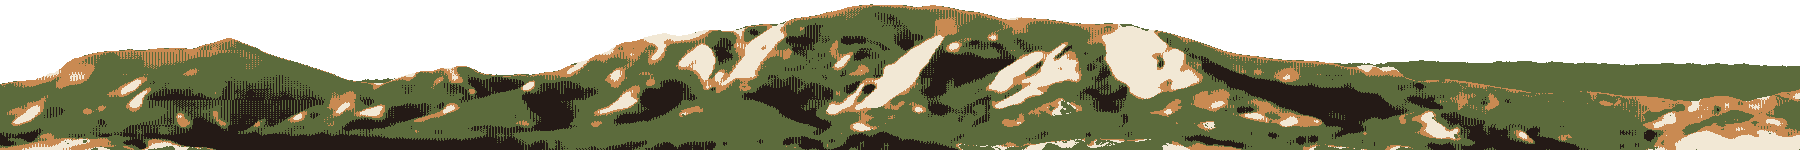
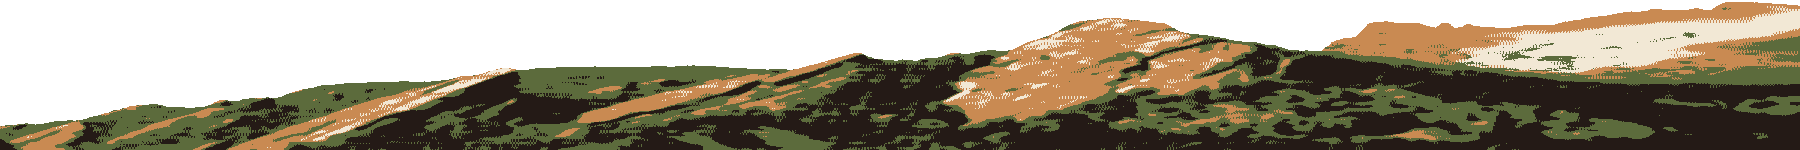
site: reframe the header ridge as a zoomed, angled read on the slabs
The full-range shot read as a flat horizon band. This crops in on the Flatirons
themselves so the slabs run as a rising diagonal, which is the perspective the
original winter asset had before the snow-free swap.

New source is CC BY 2.0 rather than CC BY-SA, so the derivative no longer
inherits share-alike. make_strip.py gains an optional fractional crop as its
framing dial, so re-framing is an argument instead of a hand-edit.

diff --git a/index.html b/index.html
@@ -30,9 +30,9 @@
     <link href="https://fonts.googleapis.com/css2?family=Crimson+Pro:wght@400;500;600;700&family=Inter:wght@400;500;600&family=Fira+Code:wght@400;500&display=swap" rel="stylesheet">
 
     <link rel="alternate" type="text/markdown" href="/llms.txt" title="LLM-readable profile" />
-    <!-- Header ridge: four-colour derivative of "The Flatirons in autumn" by Eddyl,
-         via Wikimedia Commons, CC BY-SA 3.0.
-         https://commons.wikimedia.org/wiki/File:The_Flatirons_in_autumn..JPG -->
+    <!-- Header ridge: four-colour derivative of "blue skies at the flat irons"
+         by emerson12, CC BY 2.0 — attribution only, no share-alike.
+         https://www.flickr.com/photos/26917921@N00/3622261403 -->
     <title>Conner Groth</title>
     <meta name="author" content="Conner Groth" />
   </head>

diff --git a/scripts/make_strip.py b/scripts/make_strip.py
@@ -5,7 +5,11 @@ Same separation as riso_web.py (median flatten -> sky mask -> luminance percenti
 plates -> bayer), but emits the actual site asset: a 4-colour RGBA cutout, binary
 alpha, squashed ~12:1 with nearest-neighbour so the plate edges stay hard.
 
-  python3 make_strip.py <photo.jpg> <out.png> [top_frac]
+  python3 make_strip.py <photo.jpg> <out.png> [top] [thresh] [p1,p2,p3] [x0,y0,x1,y1]
+
+The last argument is an optional fractional crop applied BEFORE anything else, which
+is how you pick the framing: a wide shot of the whole range vs. a zoomed, angled read
+on the slabs. Everything downstream (top, sky mask, plates) works on the crop.
 """
 import sys
 import numpy as np
@@ -16,6 +20,7 @@ OUT = sys.argv[2]
 TOP = float(sys.argv[3]) if len(sys.argv) > 3 else 0.06
 THRESH = float(sys.argv[4]) if len(sys.argv) > 4 else 46.0
 PCT = [float(x) for x in sys.argv[5].split(",")] if len(sys.argv) > 5 else [30, 58, 82]
+CROP = [float(x) for x in sys.argv[6].split(",")] if len(sys.argv) > 6 else None
 
 W, H = 2400, 780
 BAND = 200                      # 2400x200 -> 1800x150, the shipped 12:1
@@ -26,8 +31,11 @@ PALETTE = [(36, 26, 22), (92, 107, 60), (201, 138, 82), (242, 232, 213)]
 BLACK, GREEN, RUST, CREAM = (np.array(c, dtype=np.uint8) for c in PALETTE)
 BAYER = np.array([[0, 8, 2, 10], [12, 4, 14, 6], [3, 11, 1, 9], [15, 7, 13, 5]]) / 16.0 - 0.5
 
-# ---- 1. crop to a banner that keeps the ridgeline ----
+# ---- 1. frame the shot, then crop to a banner that keeps the ridgeline ----
 im = Image.open(SRC).convert("RGB")
+if CROP:
+    fw, fh = im.size
+    im = im.crop((int(fw * CROP[0]), int(fh * CROP[1]), int(fw * CROP[2]), int(fh * CROP[3])))
 iw, ih = im.size
 crop_h = int(iw * H / W)
 top = int(ih * TOP)

diff --git a/scripts/README.md b/scripts/README.md
@@ -18,21 +18,27 @@
   nearest-neighbour (so the plate edges stay hard), writing the 1800×150 RGBA cutout
   in the shipped sandstone palette:
 
-      python3 scripts/make_strip.py <photo.jpg> public/assets/images/flatirons-riso.png [top] [thresh] [p1,p2,p3]
+      python3 scripts/make_strip.py <photo.jpg> public/assets/images/flatirons-riso.png [top] [thresh] [p1,p2,p3] [x0,y0,x1,y1]
 
   - `top` — fraction cropped off the top of the photo before the banner crop. Raise it
     until the sky mask stops reading haze as ridgeline.
   - `thresh` — colour distance from the top-6-rows sky reference that counts as terrain.
     Raise it for a hazy or gradient sky.
   - `p1,p2,p3` — luminance percentiles for the shadow/tree/rock plate splits. Lower them
-    to pull the black plate back and let rock and cream through.
+    to pull the black plate back and let rock and cream through. Raise `p3` to shrink the
+    cream plate, which is what makes lit rock stop reading as snow.
+  - `x0,y0,x1,y1` — optional fractional crop applied before everything else. This is the
+    framing dial: the whole range edge to edge vs. a zoomed, angled read on the slabs.
+    Everything downstream operates on the crop, so `top` is relative to it.
 
-  Wants a snow-free, sky-visible shot with the ridgeline clear across the full width.
-  Snow washes every plate to cream; a stormy sky breaks the mask outright.
+  Wants a snow-free, sky-visible shot. Snow washes every plate to cream; a stormy sky
+  breaks the mask outright. The ridgeline only has to run the full width of the *crop*.
 
 ## Header photo credit
 
 `public/assets/images/flatirons-riso.png` is a four-colour derivative of
-[The Flatirons in autumn](https://commons.wikimedia.org/wiki/File:The_Flatirons_in_autumn..JPG)
-by Eddyl via Wikimedia Commons, licensed **CC BY-SA 3.0**. Built with
-`make_strip.py autumn.jpg … 0.18 75 18,48,76`.
+["blue skies at the flat irons"](https://www.flickr.com/photos/26917921@N00/3622261403)
+by emerson12, licensed **CC BY 2.0** — attribution only, no share-alike, so the
+derivative carries no license obligation of its own. Built with
+`make_strip.py <photo> … 0.04 46 40,70,92 0.20,0.06,1.0,0.58`.
+Source photo kept at `~/Archives/site-sources/connergroth.com/`.
